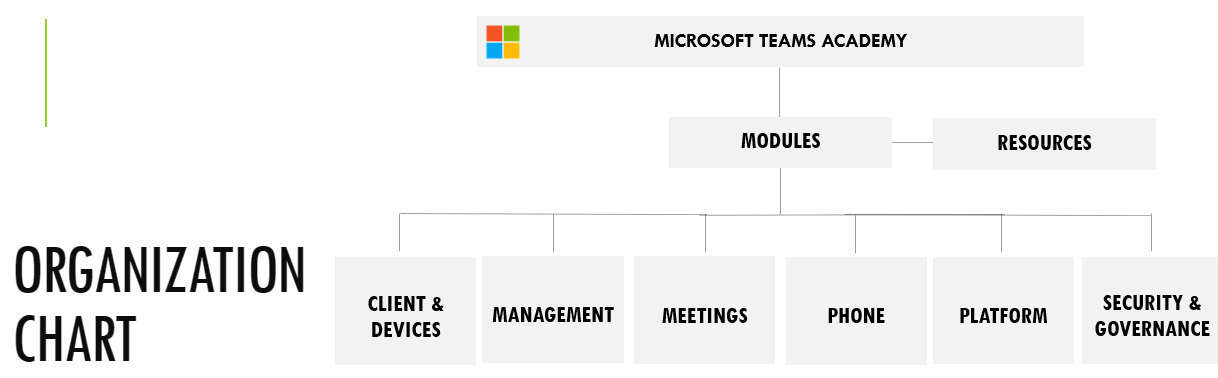
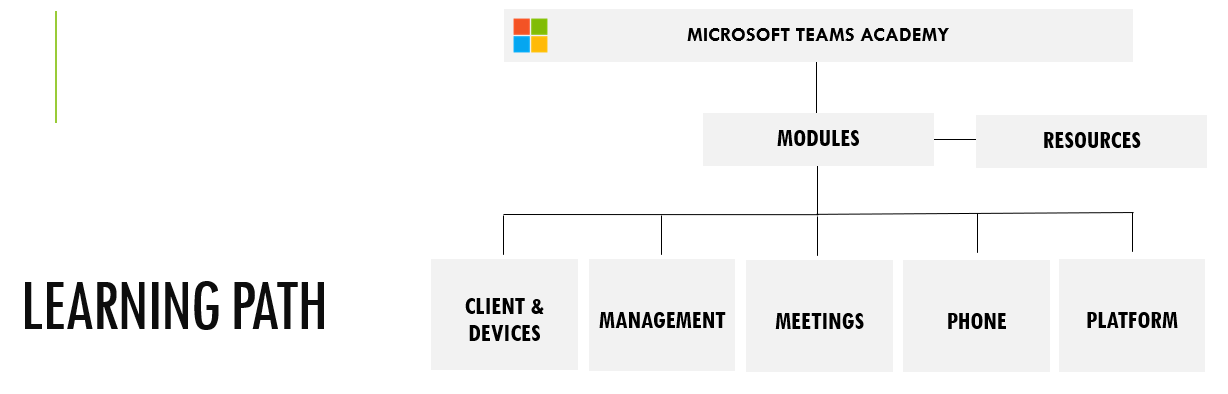
More Corrections

diff --git a/_docs/Skilling/Teams Academy/Modules.md b/_docs/Skilling/Teams Academy/Modules.md
@@ -3,7 +3,7 @@ layout: page
 title: Microsoft Teams Academy Modules
 description: Want to dive deep into learning?
 permalink: /skilling/microsoft-teams-academy/modules
-updated: 2023-08-02
+updated: 2023-09-26
 showbreadcrumb: true
 tags: 
 - academy content
@@ -15,8 +15,8 @@ tags:
 
 > More coming soon! The Teams Academy is undergoing improvements. Please check regularly for updates.
 
-### Modules
+### Modules📕📗📘
 
-The Microsoft Teams Academy's Modules are organized into seven smaller categories, including [Client & Devices](/PartnerResources/skilling/microsoft-teams-academy/client-devices), [Management](/PartnerResources/skilling/microsoft-teams-academy/management), [Meetings](/PartnerResources/skilling/microsoft-teams-academy/meetings), [Phone](/PartnerResources/skilling/microsoft-teams-academy/phone), [Platform](/PartnerResources/skilling/microsoft-teams-academy/platform), and [Security & Governance](/PartnerResources/skilling/microsoft-teams-academy/security).
+The Microsoft Teams Academy's Modules are organized into seven smaller categories, including [Client & Devices](/PartnerResources/skilling/microsoft-teams-academy/client-devices), [Management](/PartnerResources/skilling/microsoft-teams-academy/management), [Meetings](/PartnerResources/skilling/microsoft-teams-academy/meetings), [Phone](/PartnerResources/skilling/microsoft-teams-academy/phone), and [Platform](/PartnerResources/skilling/microsoft-teams-academy/platform).
 
 ![Teams Organizational Chart]({{ site.baseurl }}/assets/msa/Teams Organization Chart.png)

diff --git a/_docs/Skilling/Teams Academy/index.md b/_docs/Skilling/Teams Academy/index.md
@@ -17,7 +17,7 @@ tags:
 
 Welcome to the Microsoft Teams Academy, your comprehensive deep dive into everything Microsoft Teams! The Microsoft Teams Academy embraces a service-oriented organizational approach, making the deep and broad domain of Teams more easily consumable.
 
-Unlock your potential with our **[Modules](/PartnerResources/skilling/microsoft-teams-academy/modules).** Choose the modules that align with your areas of interest to expand your knowledge and enhance your skills.
+Unlock your potential with our **[Modules](/PartnerResources/skilling/microsoft-teams-academy/modules)📚.** Choose the modules that align with your areas of interest to expand your knowledge and enhance your skills.
 
 In addition to the modules, the Microsoft Teams Academy's **[Resources](/PartnerResources/modern-workplace/)** complement the **[Modules](/PartnerResources/skilling/microsoft-teams-academy/modules)** and empower you to explore concepts in greater detail.
 
